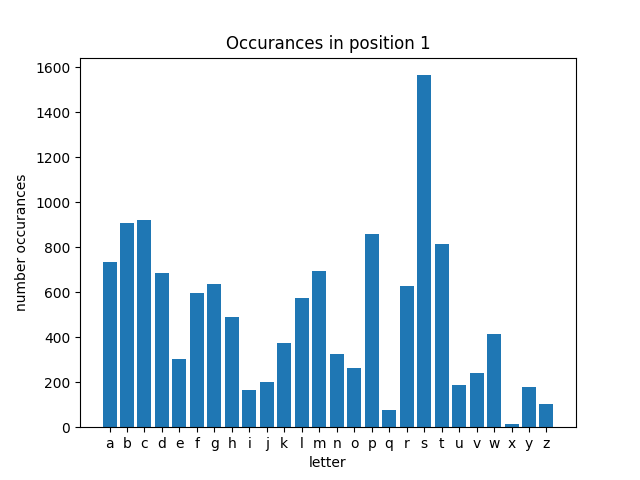
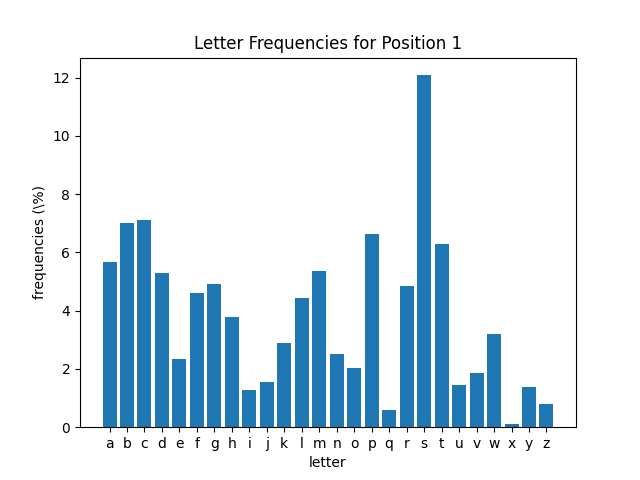
Change from occurances to frequencies

diff --git a/count.py b/count.py
@@ -23,22 +23,30 @@ for word in words:
 	for i in range(1, 6):
 		placements[str(i)][word[i-1:i]] = 0 if word[i-1:i] not in placements[str(i)] else placements[str(i)][word[i-1:i]] + 1
 		totalOccurances[word[i-1:i]] = 0 if word[i-1:i] not in totalOccurances else totalOccurances[word[i-1:i]] + 1
-		
+
+
 for n in range(1, 6):
 	plt.figure(n)
 	letters = list(alphabet)
 	occurance = [placements[str(n)][letter] for letter in list(alphabet)]
-	plt.bar(letters, occurance)
-	plt.title('Occurances in position ' + str(n))
+	totalLetters = sum(occurance)
+	frequencies = [(x/totalLetters)*100 for x in occurance]
+	plt.bar(letters, frequencies)
+	plt.title('Letter Frequencies for Position ' + str(n))
 	plt.xlabel('letter')
-	plt.ylabel('number occurances')
+	plt.ylabel('frequencies (\%)')
 	plt.savefig(str(n) + ".png")
 
+
+frequencies = [totalOccurances[letter] for letter in list(alphabet)]
+totalLetters = sum(frequencies)
+frequencies = [(x/totalLetters)*100 for x in frequencies]
 plt.figure(6)
 letters = list(alphabet)
-occurance = [totalOccurances[letter] for letter in list(alphabet)]
-plt.bar(letters, occurance)
-plt.title('Total Occurances')
+plt.bar(letters, frequencies)
+plt.title('Letter Frequencies for 5-letter Words')
 plt.xlabel('letter')
-plt.ylabel('number occurances')
+plt.ylabel('frequencies (\%)')
 plt.savefig("total.png")
+
+

diff --git a/english.py b/english.py
@@ -1,0 +1,14 @@
+import matplotlib.pyplot as plt
+
+alphabet = "abcdefghijklmnopqrstuvwxyz"
+
+letters = list(alphabet)
+# from https://www.lexico.com/explore/which-letters-are-used-most
+occurance = [8.4966, 2.0720, 4.5388, 3.3844, 11.1607, 1.8121, 2.4705, 3.0034, 7.5448, 0.1965, 1.1016, 5.4893, 3.0129, 6.6544, 7.1635, 3.1671, 0.1962, 7.5809, 5.7351, 6.9509, 3.6308, 1.0074, 1.2899,0.2902, 1.7779, 0.2722]
+plt.bar(letters, occurance)
+plt.title('Letter Frequencies in English Language')
+plt.xlabel('letter')
+plt.ylabel('frequency')
+plt.savefig("englishTotal.png")
+
+

diff --git a/README.md b/README.md
@@ -1,8 +1,8 @@
 # Wordle Statistics
 
-I had a discussion about the best wordle words. Obviously the best is to eliminate the most common letters (r, s, t, etc), as well as vowels. However it was pointed out that the most common letters might be different among 5-letter words. Thus... this small project to see the distributions of letters among 5-letter words.
+Like everyone else, I was talking about [wordle](https://www.powerlanguage.co.uk/wordle/), and the best starting words. It was pointed out that the most common letters might be different among 5-letter words vs the entire english language. Thus... this small project to see the distributions of letters among 5-letter words.
 
-I took valid words accepted by [wordle](https://www.powerlanguage.co.uk/wordle/) and plotted the occurances of each letter, was well as the most common letters within each position (1-5)
+I took valid words accepted by  and plotted the occurances of each letter, was well as the most common letters within each position (1-5)
 
 We see that common starter words such as ADEIU are actually quite bad. Not only are there more common consonants such as r, s, and t, but the position of the letters is not that common in eliminating answers. Instead, the best words are things like REAIS, SOARE, ROATE, or RAISE, which have 3 vowels and the common letters R, S, E. 
 
@@ -20,4 +20,6 @@ NOTE: This is not a wordle solver, there are plenty of those on the internet.
 
 # Findings
 
-In progress
+* The most common letters in english (in order of high to low frequency) are: e, a, i, r, o, t, n. However for 5 letter words it is different: e, s, a, o, r, i, l, t
+* The most common 5-letter starting letter is S, and by a substantial amount.
+* Vowels are the most common 2nd letter, followed by r
